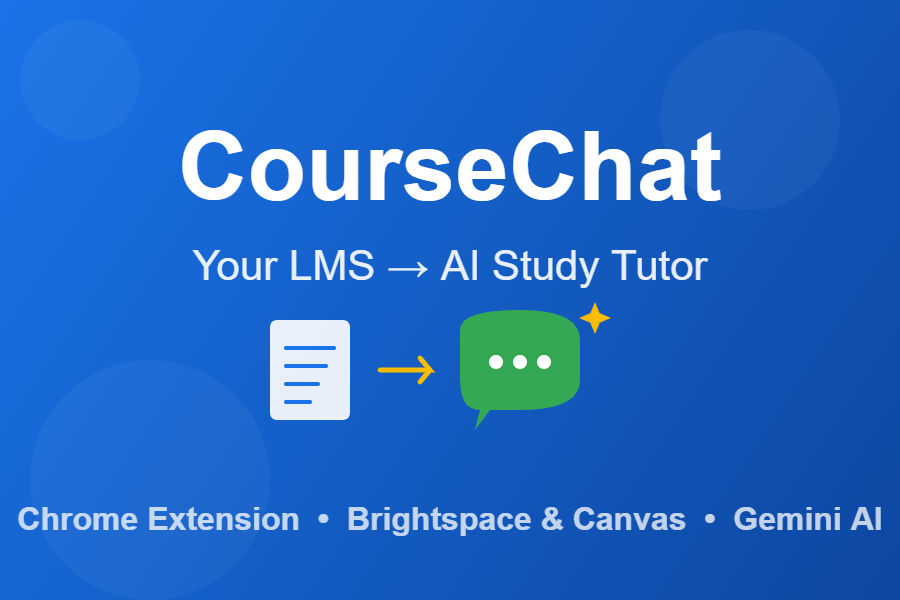
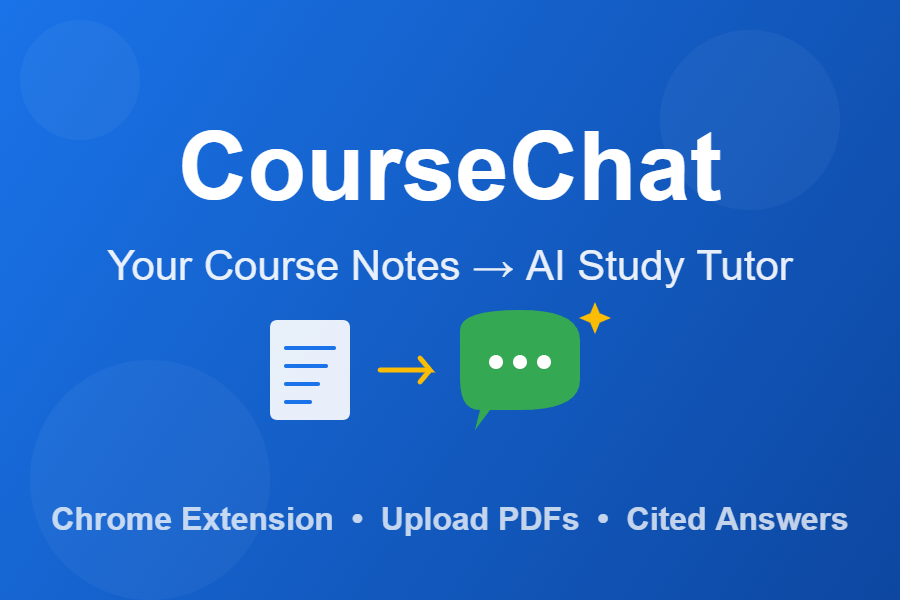
Added and refined YT and Devpost thumbnails

Changed region(s): [[0.0, 0.84, 0.9956, 0.9], [0.1244, 0.42, 0.9022, 0.48]]

diff --git a/icons/preview-and-export.html b/icons/preview-and-export.html
@@ -164,7 +164,7 @@ function drawThumbnail() {
   // Subtitle - large and readable
   ctx.font = '42px -apple-system, BlinkMacSystemFont, sans-serif';
   ctx.fillStyle = 'rgba(255,255,255,0.9)';
-  ctx.fillText('Your LMS → AI Study Tutor', W/2, 280);
+  ctx.fillText('Your Course Notes → AI Study Tutor', W/2, 280);
   
   // Icon row in the middle: doc + arrow + chat
   // Document icon
@@ -221,7 +221,7 @@ function drawThumbnail() {
   ctx.font = 'bold 32px -apple-system, BlinkMacSystemFont, sans-serif';
   ctx.fillStyle = 'rgba(255,255,255,0.75)';
   ctx.textAlign = 'center';
-  ctx.fillText('Chrome Extension  •  Brightspace & Canvas  •  Gemini AI', W/2, 530);
+  ctx.fillText('Chrome Extension  •  Upload PDFs  •  Cited Answers', W/2, 530);
 }
 
 // Download helper

diff --git a/icons/Image_Ratio_Change.py b/icons/Image_Ratio_Change.py
@@ -1,0 +1,114 @@
+from PIL import Image, ImageDraw, ImageFont
+import math
+
+def draw_star(draw, cx, cy, r, fill):
+    points = []
+    for i in range(8):
+        angle = i * math.pi / 4 - math.pi / 2
+        # Alternate radius for star tips vs inner points
+        current_r = r if i % 2 == 0 else r * 0.3
+        points.append((cx + current_r * math.cos(angle), cy + current_r * math.sin(angle)))
+    draw.polygon(points, fill=fill)
+
+def round_rect(draw, xy, r, fill):
+    x1, y1, x2, y2 = xy
+    draw.rounded_rectangle([x1, y1, x2, y2], radius=r, fill=fill)
+
+def generate_16_9_thumbnail(output_path="coursechat-thumbnail-16-9.png"):
+    # Target 16:9 dimensions (e.g., 1280x720)
+    W, H = 1280, 720
+    
+    # Create image with RGB mode
+    img = Image.new("RGBA", (W, H), (26, 115, 232, 255))
+    draw = ImageDraw.Draw(img)
+    
+    # 1. Gradient background simulation (Top-left #1a73e8 to Bottom-right #0d47a1)
+    for x in range(W):
+        for y in range(H):
+            factor = (x / W + y / H) / 2
+            r = int(26 * (1 - factor) + 13 * factor)
+            g = int(115 * (1 - factor) + 71 * factor)
+            b = int(232 * (1 - factor) + 161 * factor)
+            img.putpixel((x, y), (r, g, b, 255))
+            
+    # Re-instantiate draw after manual pixel manipulation if needed, or use shape drawer over it
+    draw = ImageDraw.Draw(img)
+
+    # 2. Subtle decorative circles (with opacity)
+    overlay = Image.new("RGBA", (W, H), (0, 0, 0, 0))
+    overlay_draw = ImageDraw.Draw(overlay)
+    circles = [(200, 580, 150), (1060, 150, 110), (110, 100, 80)]
+    for x, y, r in circles:
+        overlay_draw.ellipse([x-r, y-r, x+r, y+r], fill=(255, 255, 255, 10))
+    img = Image.alpha_composite(img, overlay)
+    draw = ImageDraw.Draw(img)
+
+    # Load system fonts or fallbacks
+    try:
+        font_title = ImageFont.truetype("/System/Library/Fonts/SFPro.ttc", 110)
+        font_subtitle = ImageFont.truetype("/System/Library/Fonts/SFPro.ttc", 48)
+        font_footer = ImageFont.truetype("/System/Library/Fonts/SFPro.ttc", 36)
+    except IOError:
+        try:
+            font_title = ImageFont.truetype("arialbd.ttf", 110)
+            font_subtitle = ImageFont.truetype("arial.ttf", 48)
+            font_footer = ImageFont.truetype("arialbd.ttf", 36)
+        except IOError:
+            font_title = ImageFont.load_default()
+            font_subtitle = ImageFont.load_default()
+            font_footer = ImageFont.load_default()
+
+    # 3. Big title - centered horizontally
+    draw.text((W / 2, 160), "CourseChat", fill="#fff", font=font_title, anchor="mm")
+    
+    # 4. Subtitle
+    draw.text((W / 2, 260), "Your Course Notes → AI Study Tutor", fill=(255, 255, 255, 230), font=font_subtitle, anchor="mm")
+
+    # 5. Icon row in the middle (shifted to fit 16:9 nicely)
+    # Document icon base coordinates
+    doc_x, doc_y, doc_w, doc_h = 440, 340, 90, 110
+    round_rect(draw, (doc_x, doc_y, doc_x + doc_w, doc_y + doc_h), r=10, fill=(255, 255, 255, 230))
+    
+    # Document lines
+    for i in range(4):
+        line_y = doc_y + 30 + i * 20
+        draw.line([(doc_x + 18, line_y), (doc_x + 18 + 54 - i * 9, line_y)], fill="#1a73e8", width=4)
+
+    # Arrow pointing right
+    arrow_start_x = 570
+    arrow_y = 395
+    draw.line([(arrow_start_x, arrow_y), (arrow_start_x + 60, arrow_y)], fill="#fbbc04", width=6)
+    draw.polygon([
+        (arrow_start_x + 55, arrow_y - 12),
+        (arrow_start_x + 75, arrow_y),
+        (arrow_start_x + 55, arrow_y + 12)
+    ], fill="#fbbc04")
+
+    # Chat bubble
+    chat_x, chat_y = 680, 325
+    chat_w, chat_h = 130, 90
+    draw.rounded_rectangle([chat_x, chat_y, chat_x + chat_w, chat_y + chat_h], radius=25, fill="#34a853")
+    # Tail of chat bubble
+    draw.polygon([
+        (chat_x + 30, chat_y + chat_h),
+        (chat_x + 50, chat_y + chat_h + 20),
+        (chat_x + 65, chat_y + chat_h)
+    ], fill="#34a853")
+
+    # Dots in chat
+    dot_y = chat_y + chat_h / 2
+    for idx, dot_x in enumerate([chat_x + 32, chat_x + 65, chat_x + 98]):
+        draw.ellipse([dot_x - 6, dot_y - 6, dot_x + 6, dot_y + 6], fill="#fff")
+
+    # Sparkle near chat bubble
+    draw_star(draw, cx=chat_x + chat_w + 25, cy=chat_y + 15, r=18, fill="#fbbc04")
+
+    # 6. Bottom features text
+    draw.text((W / 2, 600), "Chrome Extension  •  Upload PDFs  •  Cited Answers", fill=(255, 255, 255, 190), font=font_footer, anchor="mm")
+
+    # Save the output 16:9 thumbnail
+    img.convert("RGB").save(output_path)
+    print(f"16:9 thumbnail successfully saved to {output_path}")
+
+if __name__ == "__main__":
+    generate_16_9_thumbnail()
